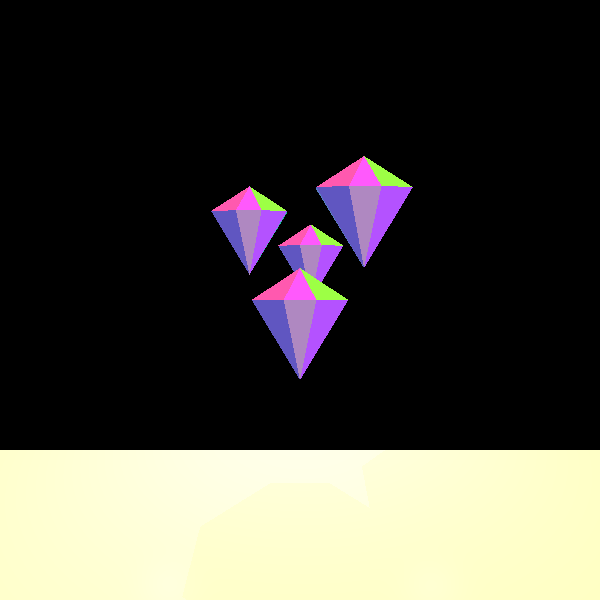
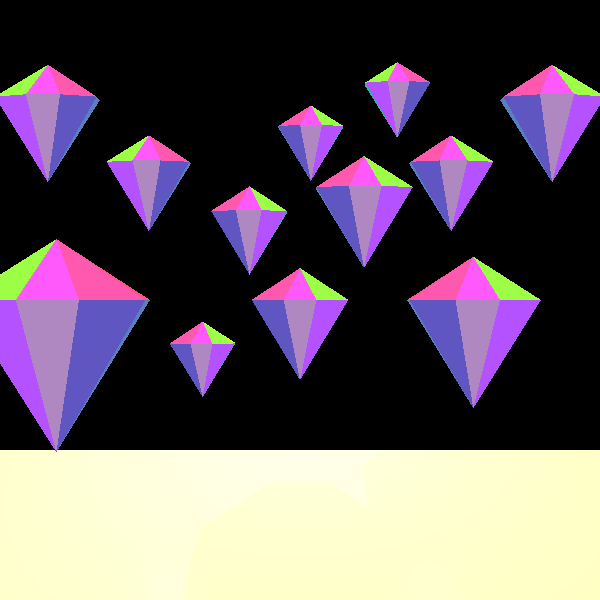
mp2

diff --git a/test/renderer/ReflectionRefractionTests.java b/test/renderer/ReflectionRefractionTests.java
@@ -283,16 +283,16 @@ public class ReflectionRefractionTests {
                 new Triangle(L8, H8, J8).setEmission(new Color(96, 86, 193)),
                 new Triangle(L8, J8, I8).setEmission(new Color(175, 136, 193)));
 
-        M8 = new Point3D(20, 25, -395);
-        N8 = new Point3D(10, 25, -407.5);
-        E8 = new Point3D(0, 25, -407.5);
-        F8 = new Point3D(-10, 25, -395);
-        G8 = new Point3D(20, 25, -380);
-        H8 = new Point3D(-10, 25, -380);
-        I8 = new Point3D(10, 25, -370);
-        J8 = new Point3D(0, 25, -370);
-        K8 = new Point3D(5, 35, -387.5);
-        L8 = new Point3D(5, 0, -387.5);
+        M8 = new Point3D(20, 80, -395);
+        N8 = new Point3D(10, 80, -407.5);
+        E8 = new Point3D(0, 80, -407.5);
+        F8 = new Point3D(-10, 80, -395);
+        G8 = new Point3D(20, 80, -380);
+        H8 = new Point3D(-10, 80, -380);
+        I8 = new Point3D(10, 80, -370);
+        J8 = new Point3D(0, 80, -370);
+        K8 = new Point3D(5, 90, -387.5);
+        L8 = new Point3D(5, 55, -387.5);
 
         scene._geometries.add(new Polygon(I8, G8, M8, N8, E8, F8, H8, J8).setEmission(new Color(java.awt.Color.WHITE)),
                 //UP TRIANGLES
@@ -314,6 +314,252 @@ public class ReflectionRefractionTests {
                 new Triangle(L8, H8, J8).setEmission(new Color(96, 86, 193)),
                 new Triangle(L8, J8, I8).setEmission(new Color(175, 136, 193)));
 
+        M8 = new Point3D(90, 60, 100);
+        N8 = new Point3D(80, 60, 87.5);
+        E8 = new Point3D(70, 60, 87.5);
+        F8 = new Point3D(60, 60, 100);
+        G8 = new Point3D(90, 60, 115);
+        H8 = new Point3D(60, 60, 115);
+        I8 = new Point3D(80, 60, 125);
+        J8 = new Point3D(70, 60, 125);
+        K8 = new Point3D(75, 70, 107.5);
+        L8 = new Point3D(75, 35, 107.5);
+
+        scene._geometries.add(new Polygon(I8, G8, M8, N8, E8, F8, H8, J8).setEmission(new Color(java.awt.Color.WHITE)),
+                //UP TRIANGLES
+                new Triangle(K8, I8, G8).setEmission(new Color(157, 255, 69)),
+                new Triangle(K8, G8, M8).setEmission(new Color(238, 255, 29)),
+                new Triangle(K8, M8, N8).setEmission(new Color(255, 209, 51)),
+                new Triangle(K8, N8, E8).setEmission(new Color(255, 154, 28)),
+                new Triangle(K8, E8, F8).setEmission(new Color(255, 97, 64)),
+                new Triangle(K8, F8, H8).setEmission(new Color(255, 83, 128)),
+                new Triangle(K8, H8, J8).setEmission(new Color(255, 89, 175)),
+                new Triangle(K8, J8, I8).setEmission(new Color(255, 89, 252)),
+                //DOWN TRIANGLES
+                new Triangle(L8, I8, G8).setEmission(new Color(180, 82, 255)),
+                new Triangle(L8, G8, M8).setEmission(new Color(24, 193, 158)),
+                new Triangle(L8, M8, N8).setEmission(new Color(25, 193, 188)),
+                new Triangle(L8, N8, E8).setEmission(new Color(27, 123, 193)),
+                new Triangle(L8, E8, F8).setEmission(new Color(25, 83, 193)),
+                new Triangle(L8, F8, H8).setEmission(new Color(87, 128, 193)),
+                new Triangle(L8, H8, J8).setEmission(new Color(96, 86, 193)),
+                new Triangle(L8, J8, I8).setEmission(new Color(175, 136, 193)));
+
+        M8 = new Point3D(55, 0, 300);
+        N8 = new Point3D(45, 0, 287.5);
+        E8 = new Point3D(35, 0, 287.5);
+        F8 = new Point3D(25, 0, 300);
+        G8 = new Point3D(55, 0, 315);
+        H8 = new Point3D(25, 0, 315);
+        I8 = new Point3D(45, 0, 325);
+        J8 = new Point3D(35, 0, 325);
+        K8 = new Point3D(40, 10, 307.5);
+        L8 = new Point3D(40, -25, 307.5);
+
+        scene._geometries.add(new Polygon(I8, G8, M8, N8, E8, F8, H8, J8).setEmission(new Color(java.awt.Color.WHITE)),
+                //UP TRIANGLES
+                new Triangle(K8, I8, G8).setEmission(new Color(157, 255, 69)),
+                new Triangle(K8, G8, M8).setEmission(new Color(238, 255, 29)),
+                new Triangle(K8, M8, N8).setEmission(new Color(255, 209, 51)),
+                new Triangle(K8, N8, E8).setEmission(new Color(255, 154, 28)),
+                new Triangle(K8, E8, F8).setEmission(new Color(255, 97, 64)),
+                new Triangle(K8, F8, H8).setEmission(new Color(255, 83, 128)),
+                new Triangle(K8, H8, J8).setEmission(new Color(255, 89, 175)),
+                new Triangle(K8, J8, I8).setEmission(new Color(255, 89, 252)),
+                //DOWN TRIANGLES
+                new Triangle(L8, I8, G8).setEmission(new Color(180, 82, 255)),
+                new Triangle(L8, G8, M8).setEmission(new Color(24, 193, 158)),
+                new Triangle(L8, M8, N8).setEmission(new Color(25, 193, 188)),
+                new Triangle(L8, N8, E8).setEmission(new Color(27, 123, 193)),
+                new Triangle(L8, E8, F8).setEmission(new Color(25, 83, 193)),
+                new Triangle(L8, F8, H8).setEmission(new Color(87, 128, 193)),
+                new Triangle(L8, H8, J8).setEmission(new Color(96, 86, 193)),
+                new Triangle(L8, J8, I8).setEmission(new Color(175, 136, 193)));
+
+        M8 = new Point3D(70, 50, -100);
+        N8 = new Point3D(60, 50, -112.5);
+        E8 = new Point3D(50, 50, -112.5);
+        F8 = new Point3D(40, 50, -100);
+        G8 = new Point3D(70, 50, -85);
+        H8 = new Point3D(40, 50, -85);
+        I8 = new Point3D(60, 50, -75);
+        J8 = new Point3D(50, 50, -75);
+        K8 = new Point3D(55, 60, -92.5);
+        L8 = new Point3D(55, 25, -92.5);
+
+        scene._geometries.add(new Polygon(I8, G8, M8, N8, E8, F8, H8, J8).setEmission(new Color(java.awt.Color.WHITE)),
+                //UP TRIANGLES
+                new Triangle(K8, I8, G8).setEmission(new Color(157, 255, 69)),
+                new Triangle(K8, G8, M8).setEmission(new Color(238, 255, 29)),
+                new Triangle(K8, M8, N8).setEmission(new Color(255, 209, 51)),
+                new Triangle(K8, N8, E8).setEmission(new Color(255, 154, 28)),
+                new Triangle(K8, E8, F8).setEmission(new Color(255, 97, 64)),
+                new Triangle(K8, F8, H8).setEmission(new Color(255, 83, 128)),
+                new Triangle(K8, H8, J8).setEmission(new Color(255, 89, 175)),
+                new Triangle(K8, J8, I8).setEmission(new Color(255, 89, 252)),
+                //DOWN TRIANGLES
+                new Triangle(L8, I8, G8).setEmission(new Color(180, 82, 255)),
+                new Triangle(L8, G8, M8).setEmission(new Color(24, 193, 158)),
+                new Triangle(L8, M8, N8).setEmission(new Color(25, 193, 188)),
+                new Triangle(L8, N8, E8).setEmission(new Color(27, 123, 193)),
+                new Triangle(L8, E8, F8).setEmission(new Color(25, 83, 193)),
+                new Triangle(L8, F8, H8).setEmission(new Color(87, 128, 193)),
+                new Triangle(L8, H8, J8).setEmission(new Color(96, 86, 193)),
+                new Triangle(L8, J8, I8).setEmission(new Color(175, 136, 193)));
+
+        M8 = new Point3D(-90, 60, 100);
+        N8 = new Point3D(-80, 60, 87.5);
+        E8 = new Point3D(-70, 60, 87.5);
+        F8 = new Point3D(-60, 60, 100);
+        G8 = new Point3D(-90, 60, 115);
+        H8 = new Point3D(-60, 60, 115);
+        I8 = new Point3D(-80, 60, 125);
+        J8 = new Point3D(-70, 60, 125);
+        K8 = new Point3D(-75, 70, 107.5);
+        L8 = new Point3D(-75, 35, 107.5);
+
+        scene._geometries.add(new Polygon(I8, G8, M8, N8, E8, F8, H8, J8).setEmission(new Color(java.awt.Color.WHITE)),
+                //UP TRIANGLES
+                new Triangle(K8, I8, G8).setEmission(new Color(157, 255, 69)),
+                new Triangle(K8, G8, M8).setEmission(new Color(238, 255, 29)),
+                new Triangle(K8, M8, N8).setEmission(new Color(255, 209, 51)),
+                new Triangle(K8, N8, E8).setEmission(new Color(255, 154, 28)),
+                new Triangle(K8, E8, F8).setEmission(new Color(255, 97, 64)),
+                new Triangle(K8, F8, H8).setEmission(new Color(255, 83, 128)),
+                new Triangle(K8, H8, J8).setEmission(new Color(255, 89, 175)),
+                new Triangle(K8, J8, I8).setEmission(new Color(255, 89, 252)),
+                //DOWN TRIANGLES
+                new Triangle(L8, I8, G8).setEmission(new Color(180, 82, 255)),
+                new Triangle(L8, G8, M8).setEmission(new Color(24, 193, 158)),
+                new Triangle(L8, M8, N8).setEmission(new Color(25, 193, 188)),
+                new Triangle(L8, N8, E8).setEmission(new Color(27, 123, 193)),
+                new Triangle(L8, E8, F8).setEmission(new Color(25, 83, 193)),
+                new Triangle(L8, F8, H8).setEmission(new Color(87, 128, 193)),
+                new Triangle(L8, H8, J8).setEmission(new Color(96, 86, 193)),
+                new Triangle(L8, J8, I8).setEmission(new Color(175, 136, 193)));
+
+        M8 = new Point3D(-55, 0, 500);
+        N8 = new Point3D(-45, 0, 487.5);
+        E8 = new Point3D(-35, 0, 487.5);
+        F8 = new Point3D(-25, 0, 500);
+        G8 = new Point3D(-55, 0, 515);
+        H8 = new Point3D(-25, 0, 515);
+        I8 = new Point3D(-45, 0, 525);
+        J8 = new Point3D(-35, 0, 525);
+        K8 = new Point3D(-40, 10, 507.5);
+        L8 = new Point3D(-40, -25, 507.5);
+
+        scene._geometries.add(new Polygon(I8, G8, M8, N8, E8, F8, H8, J8).setEmission(new Color(java.awt.Color.WHITE)),
+                //UP TRIANGLES
+                new Triangle(K8, I8, G8).setEmission(new Color(157, 255, 69)),
+                new Triangle(K8, G8, M8).setEmission(new Color(238, 255, 29)),
+                new Triangle(K8, M8, N8).setEmission(new Color(255, 209, 51)),
+                new Triangle(K8, N8, E8).setEmission(new Color(255, 154, 28)),
+                new Triangle(K8, E8, F8).setEmission(new Color(255, 97, 64)),
+                new Triangle(K8, F8, H8).setEmission(new Color(255, 83, 128)),
+                new Triangle(K8, H8, J8).setEmission(new Color(255, 89, 175)),
+                new Triangle(K8, J8, I8).setEmission(new Color(255, 89, 252)),
+                //DOWN TRIANGLES
+                new Triangle(L8, I8, G8).setEmission(new Color(180, 82, 255)),
+                new Triangle(L8, G8, M8).setEmission(new Color(24, 193, 158)),
+                new Triangle(L8, M8, N8).setEmission(new Color(25, 193, 188)),
+                new Triangle(L8, N8, E8).setEmission(new Color(27, 123, 193)),
+                new Triangle(L8, E8, F8).setEmission(new Color(25, 83, 193)),
+                new Triangle(L8, F8, H8).setEmission(new Color(87, 128, 193)),
+                new Triangle(L8, H8, J8).setEmission(new Color(96, 86, 193)),
+                new Triangle(L8, J8, I8).setEmission(new Color(175, 136, 193)));
+
+        M8 = new Point3D(-70, 50, -100);
+        N8 = new Point3D(-60, 50, -112.5);
+        E8 = new Point3D(-50, 50, -112.5);
+        F8 = new Point3D(-40, 50, -100);
+        G8 = new Point3D(-70, 50, -85);
+        H8 = new Point3D(-40, 50, -85);
+        I8 = new Point3D(-60, 50, -75);
+        J8 = new Point3D(-50, 50, -75);
+        K8 = new Point3D(-55, 60, -92.5);
+        L8 = new Point3D(-55, 25, -92.5);
+
+        scene._geometries.add(new Polygon(I8, G8, M8, N8, E8, F8, H8, J8).setEmission(new Color(java.awt.Color.WHITE)),
+                //UP TRIANGLES
+                new Triangle(K8, I8, G8).setEmission(new Color(157, 255, 69)),
+                new Triangle(K8, G8, M8).setEmission(new Color(238, 255, 29)),
+                new Triangle(K8, M8, N8).setEmission(new Color(255, 209, 51)),
+                new Triangle(K8, N8, E8).setEmission(new Color(255, 154, 28)),
+                new Triangle(K8, E8, F8).setEmission(new Color(255, 97, 64)),
+                new Triangle(K8, F8, H8).setEmission(new Color(255, 83, 128)),
+                new Triangle(K8, H8, J8).setEmission(new Color(255, 89, 175)),
+                new Triangle(K8, J8, I8).setEmission(new Color(255, 89, 252)),
+                //DOWN TRIANGLES
+                new Triangle(L8, I8, G8).setEmission(new Color(180, 82, 255)),
+                new Triangle(L8, G8, M8).setEmission(new Color(24, 193, 158)),
+                new Triangle(L8, M8, N8).setEmission(new Color(25, 193, 188)),
+                new Triangle(L8, N8, E8).setEmission(new Color(27, 123, 193)),
+                new Triangle(L8, E8, F8).setEmission(new Color(25, 83, 193)),
+                new Triangle(L8, F8, H8).setEmission(new Color(87, 128, 193)),
+                new Triangle(L8, H8, J8).setEmission(new Color(96, 86, 193)),
+                new Triangle(L8, J8, I8).setEmission(new Color(175, 136, 193)));
+
+        M8 = new Point3D(-30, -20, -395);
+        N8 = new Point3D(-40, -20, -407.5);
+        E8 = new Point3D(-50, -20, -407.5);
+        F8 = new Point3D(-60, -20, -395);
+        G8 = new Point3D(-30, -20, -380);
+        H8 = new Point3D(-60, -20, -380);
+        I8 = new Point3D(-40, -20, -370);
+        J8 = new Point3D(-50, -20, -370);
+        K8 = new Point3D(-45, -10, -387.5);
+        L8 = new Point3D(-45, -45, -387.5);
+
+        scene._geometries.add(new Polygon(I8, G8, M8, N8, E8, F8, H8, J8).setEmission(new Color(java.awt.Color.WHITE)),
+                //UP TRIANGLES
+                new Triangle(K8, I8, G8).setEmission(new Color(157, 255, 69)),
+                new Triangle(K8, G8, M8).setEmission(new Color(238, 255, 29)),
+                new Triangle(K8, M8, N8).setEmission(new Color(255, 209, 51)),
+                new Triangle(K8, N8, E8).setEmission(new Color(255, 154, 28)),
+                new Triangle(K8, E8, F8).setEmission(new Color(255, 97, 64)),
+                new Triangle(K8, F8, H8).setEmission(new Color(255, 83, 128)),
+                new Triangle(K8, H8, J8).setEmission(new Color(255, 89, 175)),
+                new Triangle(K8, J8, I8).setEmission(new Color(255, 89, 252)),
+                //DOWN TRIANGLES
+                new Triangle(L8, I8, G8).setEmission(new Color(180, 82, 255)),
+                new Triangle(L8, G8, M8).setEmission(new Color(24, 193, 158)),
+                new Triangle(L8, M8, N8).setEmission(new Color(25, 193, 188)),
+                new Triangle(L8, N8, E8).setEmission(new Color(27, 123, 193)),
+                new Triangle(L8, E8, F8).setEmission(new Color(25, 83, 193)),
+                new Triangle(L8, F8, H8).setEmission(new Color(87, 128, 193)),
+                new Triangle(L8, H8, J8).setEmission(new Color(96, 86, 193)),
+                new Triangle(L8, J8, I8).setEmission(new Color(175, 136, 193)));
+        M8 = new Point3D(30, 100, -395);
+        N8 = new Point3D(40, 100, -407.5);
+        E8 = new Point3D(50, 100, -407.5);
+        F8 = new Point3D(60, 100, -395);
+        G8 = new Point3D(30, 100, -380);
+        H8 = new Point3D(60, 100, -380);
+        I8 = new Point3D(40, 100, -370);
+        J8 = new Point3D(50, 100, -370);
+        K8 = new Point3D(45, 110, -387.5);
+        L8 = new Point3D(45, 75, -387.5);
+
+        scene._geometries.add(new Polygon(I8, G8, M8, N8, E8, F8, H8, J8).setEmission(new Color(java.awt.Color.WHITE)),
+                //UP TRIANGLES
+                new Triangle(K8, I8, G8).setEmission(new Color(157, 255, 69)),
+                new Triangle(K8, G8, M8).setEmission(new Color(238, 255, 29)),
+                new Triangle(K8, M8, N8).setEmission(new Color(255, 209, 51)),
+                new Triangle(K8, N8, E8).setEmission(new Color(255, 154, 28)),
+                new Triangle(K8, E8, F8).setEmission(new Color(255, 97, 64)),
+                new Triangle(K8, F8, H8).setEmission(new Color(255, 83, 128)),
+                new Triangle(K8, H8, J8).setEmission(new Color(255, 89, 175)),
+                new Triangle(K8, J8, I8).setEmission(new Color(255, 89, 252)),
+                //DOWN TRIANGLES
+                new Triangle(L8, I8, G8).setEmission(new Color(180, 82, 255)),
+                new Triangle(L8, G8, M8).setEmission(new Color(24, 193, 158)),
+                new Triangle(L8, M8, N8).setEmission(new Color(25, 193, 188)),
+                new Triangle(L8, N8, E8).setEmission(new Color(27, 123, 193)),
+                new Triangle(L8, E8, F8).setEmission(new Color(25, 83, 193)),
+                new Triangle(L8, F8, H8).setEmission(new Color(87, 128, 193)),
+                new Triangle(L8, H8, J8).setEmission(new Color(96, 86, 193)),
+                new Triangle(L8, J8, I8).setEmission(new Color(175, 136, 193)));
 
 //                //the big sphere
 //                new Sphere(new Point3D(0, -31, 20), 23).setEmission(new Color(53, 85, 204))
@@ -462,8 +708,8 @@ public class ReflectionRefractionTests {
                 .setCamera(camera) //
                 .setRayTracerBase(new BasicRayTracer(scene));
 
-        scene._geometries.setBVHImprovementOff(false);
-        scene._geometries.buildHierarchicalBVH();
+       // scene._geometries.setBVHImprovementOff(false);
+        //scene._geometries.buildHierarchicalBVH();
 
         render.renderImage();
         render.writeToImage();
